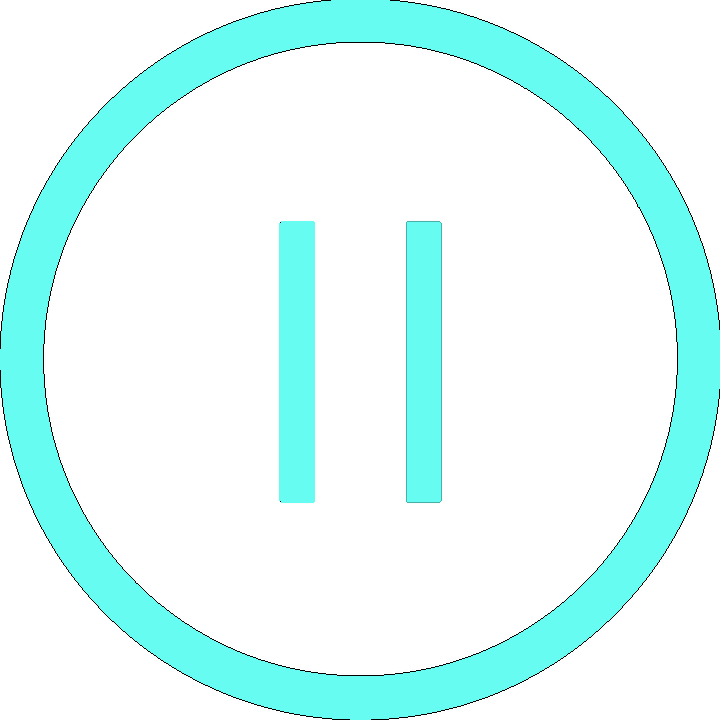
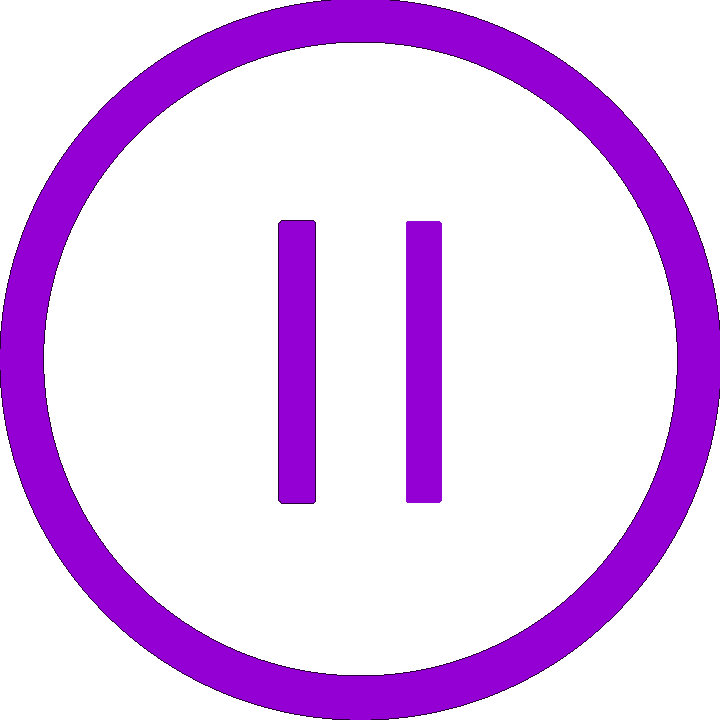
Changed color scheme, returned to host on port 8888

Changed region(s): [[0.0, 0.0, 1.0, 1.0], [0.3667, 0.3056, 0.4583, 0.7028], [0.55, 0.3056, 0.6111, 0.7028]]

diff --git a/authorization_code/public/stylesheets/index.css b/authorization_code/public/stylesheets/index.css
@@ -28,7 +28,7 @@ of the screen
 div#header {
     background-color: black;
     font-family: LatoWeb;
-    color: #66fcf1;
+    color: #9400D3;
     text-align: center;
     font-size: 8rem;
     position: absolute;
@@ -43,15 +43,31 @@ div#header {
     margin: 0;
 }
 
+div#login_header {
+    font-family: LatoWeb;
+    color: #9400D3;
+    text-align: center;
+    font-size: 10rem;
+    padding: 0 0 5% 0;
+}
+
+.btn-primary:hover {
+    border-color: #ffffff;
+    background-color: #ffffff;
+    color: #9400D3;
+}
+
 .btn-primary {
-    background-color: #66fcf1;
+    background-color: #9400D3;
+    border-color: #9400D3;
     color: black;
+    font-weight: bold;
 }
 
 div#paneHeader {
     background-color: black;
     font-family: LatoWeb;
-    color: #66fcf1;
+    color: #9400D3;
     text-align: center;
     font-size: 2.25rem;
     position: absolute;
@@ -68,7 +84,7 @@ div#paneHeader {
 /* style for the main pane that displays tracks, albums, etc.*/
 #mainPane {
     background-color: black;
-    color: #66fcf1;
+    color: #9400D3;
     font-family: LatoWeb;
     position: absolute;
     left: 20%;
@@ -109,7 +125,7 @@ div#sidebar {
     height: 89vh;
     min-width: 250px;
     border-right: 2px solid dimgray;
-    color: #66fcf1;
+    color: #9400D3;
     padding: 0 0 0 1vw;
     margin: 0;
     overflow-x: hidden;
@@ -126,7 +142,7 @@ div#sidebar {
 
 /*links change color when you mouse over them*/
 .h a:hover, .offcanvas a:focus {
-    color: #66fcf1;
+    color: #9400D3;
 }
 
 .text-overflow {
@@ -152,7 +168,7 @@ div#sidebar {
 }
 
 #show_playlists li a:hover, .offcanvas a:focus {
-    color: #66fcf1;
+    color: #9400D3;
 }
 
 /*style for the text wrapper*/

diff --git a/authorization_code/public/index.html b/authorization_code/public/index.html
@@ -14,7 +14,8 @@
     <!--The initial login page-->
     <div id="login">
         <div class="wrapper">
-            <img src="images/SpotiFourLogo.png" id="Logo" alt="Logo">
+            <! ---<img src="images/SpotiFourLogo.png" id="Logo" alt="Logo">
+            <div id="login_header">Lyricon</div>
             <h4>Please login with Spotify to continue</h4>
             <!--Login button-->
             <a href="/login" class="btn btn-primary">Log in with Spotify</a>
@@ -29,11 +30,11 @@
 
             <div id="sidebar">
                 <!--image here-->
-                <img src="images/SpotiFourLogoCircle.png" id="sideBarLogo" alt="Logo">
+                <!<img src="images/SpotiFourLogoCircle.png" id="sideBarLogo" alt="Logo">
                 <div class="sbHeader">Welcome, <br> {{display_name}}</div>
                 <div>
                     <!--Logout button-->
-                    <button class="btn btn-primary" id="logout" style="background-color: #66fcf1; color: black">Logout</button> <br> <br>
+                    <button class="btn btn-primary" id="logout">Logout</button> <br> <br>
                 </div>
                 <!--Songs Spotify has designated as popular-->
                 <div class="h"> Browse Popular
@@ -61,7 +62,7 @@
         </div>
 
         <!--The main pane is an iframe with dynamic content based on what the user clicks-->
-        <iframe id="mainPane" src="SpotiFourLogo.html" width="80%" height="74%" frameborder="0" >
+        <iframe id="mainPane" src="libraryTracks.html" width="80%" height="74%" frameborder="0" >
                 <p>Your browser does not support iframes.</p>
         </iframe>
 

diff --git a/authorization_code/public/playlist.html b/authorization_code/public/playlist.html
@@ -16,11 +16,11 @@
 
         <div class="pane">
             <ul id="show_tracks">
-                <li class="listItem" style="background-color: rgb(50, 50, 50);">
-                    <h2 class="track-title" style="padding-top: 0; color: #66fcf1">TITLE</h2>
-                    <h2 class="cell1" style="padding-top: 0; color: #66fcf1">ARTIST</h2>
-                    <h2 class="cell2" style="padding-top: 0; color: #66fcf1">ALBUM</h2>
-                    <h2 class="cell3" style="padding-top: 0; color: #66fcf1">TIME</h2>
+                <li class="listItem">
+                    <h2 class="track-title" style="padding-top: 0; color: #9400D3">TITLE</h2>
+                    <h2 class="cell1" style="padding-top: 0; color: #9400D3">ARTIST</h2>
+                    <h2 class="cell2" style="padding-top: 0; color: #9400D3">ALBUM</h2>
+                    <h2 class="cell3" style="padding-top: 0; color: #9400D3">TIME</h2>
                 </li>
             </ul>  <!--list the tracks in a playlist-->
         </div>

diff --git a/authorization_code/public/libraryTracks.html b/authorization_code/public/libraryTracks.html
@@ -16,11 +16,11 @@
 
 <div class="pane">
     <ul id="show_tracks">
-        <li class="listItem" style="background-color: rgb(50, 50, 50);">
-            <h2 class="track-title" style="padding-top: 0; color: #66fcf1">TITLE</h2>
-            <h2 class="cell1" style="padding-top: 0; color: #66fcf1">ARTIST</h2>
-            <h2 class="cell2" style="padding-top: 0; color: #66fcf1">ALBUM</h2>
-            <h2 class="cell3" style="padding-top: 0; color: #66fcf1">TIME</h2>
+        <li class="listItem">
+            <h2 class="track-title" style="padding-top: 0; color: #9400D3">TITLE</h2>
+            <h2 class="cell1" style="padding-top: 0; color: #9400D3">ARTIST</h2>
+            <h2 class="cell2" style="padding-top: 0; color: #9400D3">ALBUM</h2>
+            <h2 class="cell3" style="padding-top: 0; color: #9400D3">TIME</h2>
         </li>
     </ul>  <!--list the tracks in the user's library-->
 </div>

diff --git a/authorization_code/public/popular.html b/authorization_code/public/popular.html
@@ -16,11 +16,11 @@
 
 <div class="pane">
     <ul id="show_tracks">
-        <li class="listItem" style="background-color: rgb(50, 50, 50);">
-            <h2 class="track-title" style="padding-top: 0; color: #66fcf1">TITLE</h2>
-            <h2 class="cell1" style="padding-top: 0; color: #66fcf1">ARTIST</h2>
-            <h2 class="cell2" style="padding-top: 0; color: #66fcf1">ALBUM</h2>
-            <h2 class="cell3" style="padding-top: 0; color: #66fcf1">TIME</h2>
+        <li class="listItem">
+            <h2 class="track-title" style="padding-top: 0; color: #9400D3">TITLE</h2>
+            <h2 class="cell1" style="padding-top: 0; color: #9400D3">ARTIST</h2>
+            <h2 class="cell2" style="padding-top: 0; color: #9400D3">ALBUM</h2>
+            <h2 class="cell3" style="padding-top: 0; color: #9400D3">TIME</h2>
         </li>
     </ul>  <!--list the tracks in the user's library-->
 </div>

diff --git a/authorization_code/public/search.html b/authorization_code/public/search.html
@@ -33,10 +33,10 @@
     </div>
     <div class="pane">
         <ul id="show_tracks">
-            <li class="listItem" style="background-color: rgb(50, 50, 50);">
-                <h2 class="track-title" style="padding-top: 0; color: #66fcf1">TITLE</h2>
-                <h2 class="cell1" style="padding-top: 0; color: #66fcf1">ARTIST</h2>
-                <h2 class="cell2" style="padding-top: 0; color: #66fcf1">ALBUM</h2>
+            <li class="listItem">
+                <h2 class="track-title" style="padding-top: 0; color: #9400D3">TITLE</h2>
+                <h2 class="cell1" style="padding-top: 0; color: #9400D3">ARTIST</h2>
+                <h2 class="cell2" style="padding-top: 0; color: #9400D3">ALBUM</h2>
             </li>
         </ul>  <!--list the tracks in a playlist-->
 

diff --git a/authorization_code/public/AlbumTracks.html b/authorization_code/public/AlbumTracks.html
@@ -16,9 +16,9 @@
 
 <div class="pane">
     <ul id="show_tracks">
-        <li class="listItem" style="background-color: rgb(50, 50, 50);">
-            <h2 class="track-title" style="padding-top: 0; color: #66fcf1">TITLE</h2>
-            <h2 class="cell3" style="padding-top: 0; color: #66fcf1">TIME</h2>
+        <li class="listItem">
+            <h2 class="track-title" style="padding-top: 0; color: #9400D3">TITLE</h2>
+            <h2 class="cell3" style="padding-top: 0; color: #9400D3">TIME</h2>
         </li>
     </ul>  <!--list the tracks in an album-->
 </div>

diff --git a/authorization_code/public/stylesheets/list.css b/authorization_code/public/stylesheets/list.css
@@ -17,7 +17,7 @@ body {
 .header {
     border-bottom: 2px solid dimgray;
     font-family: LatoWeb;
-    color: #66fcf1;
+    color: #9400D3;
     text-align: left;
     font-size: 2.5rem;
     width: 95%;
@@ -143,7 +143,7 @@ body {
 }
 
 #show_tracks li a:hover, .offcanvas a:focus {
-    color: #66fcf1;
+    color: #9400D3;
 }
 
 .lyric-drop {
@@ -151,7 +151,7 @@ body {
     background-color: rgb(15, 15, 15);
     min-height: 300px;
     padding: 50px 0 0 0;
-    color: #66fcf1;
+    color: #9400D3;
     font-size: 12pt;
     text-align: center;
 

diff --git a/authorization_code/public/stylesheets/search.css b/authorization_code/public/stylesheets/search.css
@@ -69,7 +69,7 @@ div.scrollmenu::-webkit-scrollbar-thumb {
     list-style: none;
     font-family: LatoWeb;
     font-size: 12pt;
-    color: #66fcf1;
+    color: #9400D3;
     text-decoration: none;
 }
 
@@ -92,13 +92,13 @@ ul#show_albums li {
 }
 
 .artist-title:hover {
-    color: #66fcf1;
+    color: #9400D3;
 }
 
 .album-title {
     display: block;
     text-decoration: none;
-    color: #66fcf1;
+    color: #9400D3;
 }
 
 .artist-title {

diff --git a/authorization_code/app.js b/authorization_code/app.js
@@ -10,7 +10,7 @@ var cookieParser = require('cookie-parser');
 
 var client_id = '5104c9514d6e45eca1a34bf88f472863'; // client id
 var client_secret = 'f9db24401e2a4fa6a7f4d817afe46eb5'; // the application's secret key
-var redirect_uri = 'https://vryurek.github.io/Lyricon/callback'; // redirect uri
+var redirect_uri = 'http://localhost:8888/callback'; // redirect uri
 
 /**
  * Generates a random string containing numbers and letters

diff --git a/authorization_code/public/artistAlbums.html b/authorization_code/public/artistAlbums.html
@@ -16,8 +16,8 @@
 
 <div class="pane">
     <ul id="show_tracks">
-        <li class="listItem" style="background-color: rgb(50, 50, 50);">
-            <h2 class="cell" style="padding-top: 0; color: #66fcf1">ALBUM</h2>
+        <li class="listItem">
+            <h2 class="cell" style="padding-top: 0; color: #9400D3">ALBUM</h2>
         </li>
     </ul>  <!--list the albums by an artist-->
 </div>

diff --git a/authorization_code/public/stylesheets/libraryAlbums.css b/authorization_code/public/stylesheets/libraryAlbums.css
@@ -32,7 +32,7 @@ ul#library_albums li {
 }
 
 .artist-title:hover {
-    color: #66fcf1;
+    color: #9400D3;
 }
 
 .library-album-cover {
@@ -42,7 +42,7 @@ ul#library_albums li {
 .album-title {
     display: block;
     text-decoration: none;
-    color: #66fcf1;
+    color: #9400D3;
 }
 
 .artist-title {
